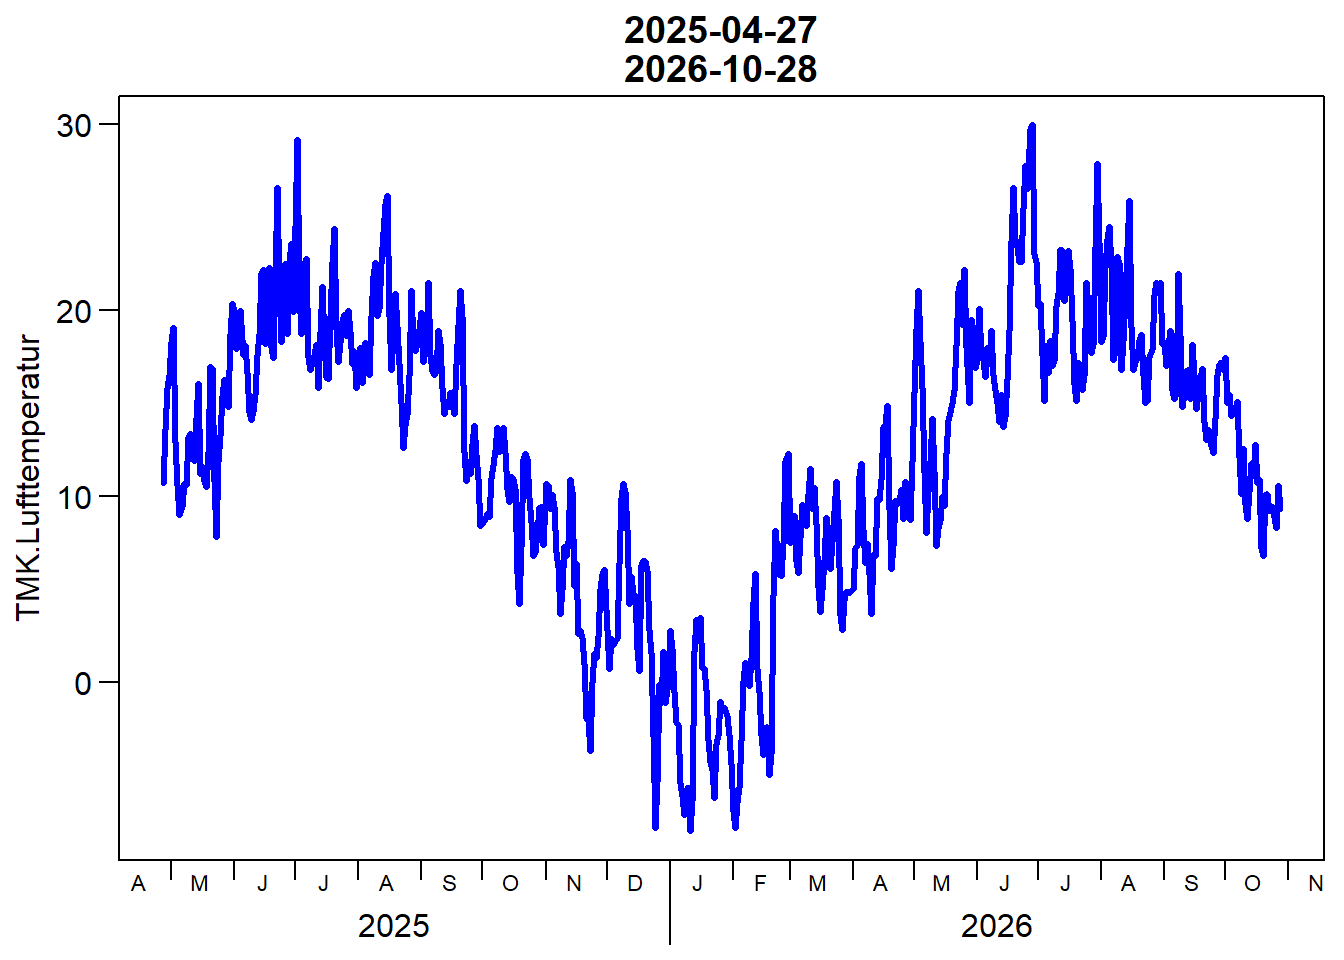
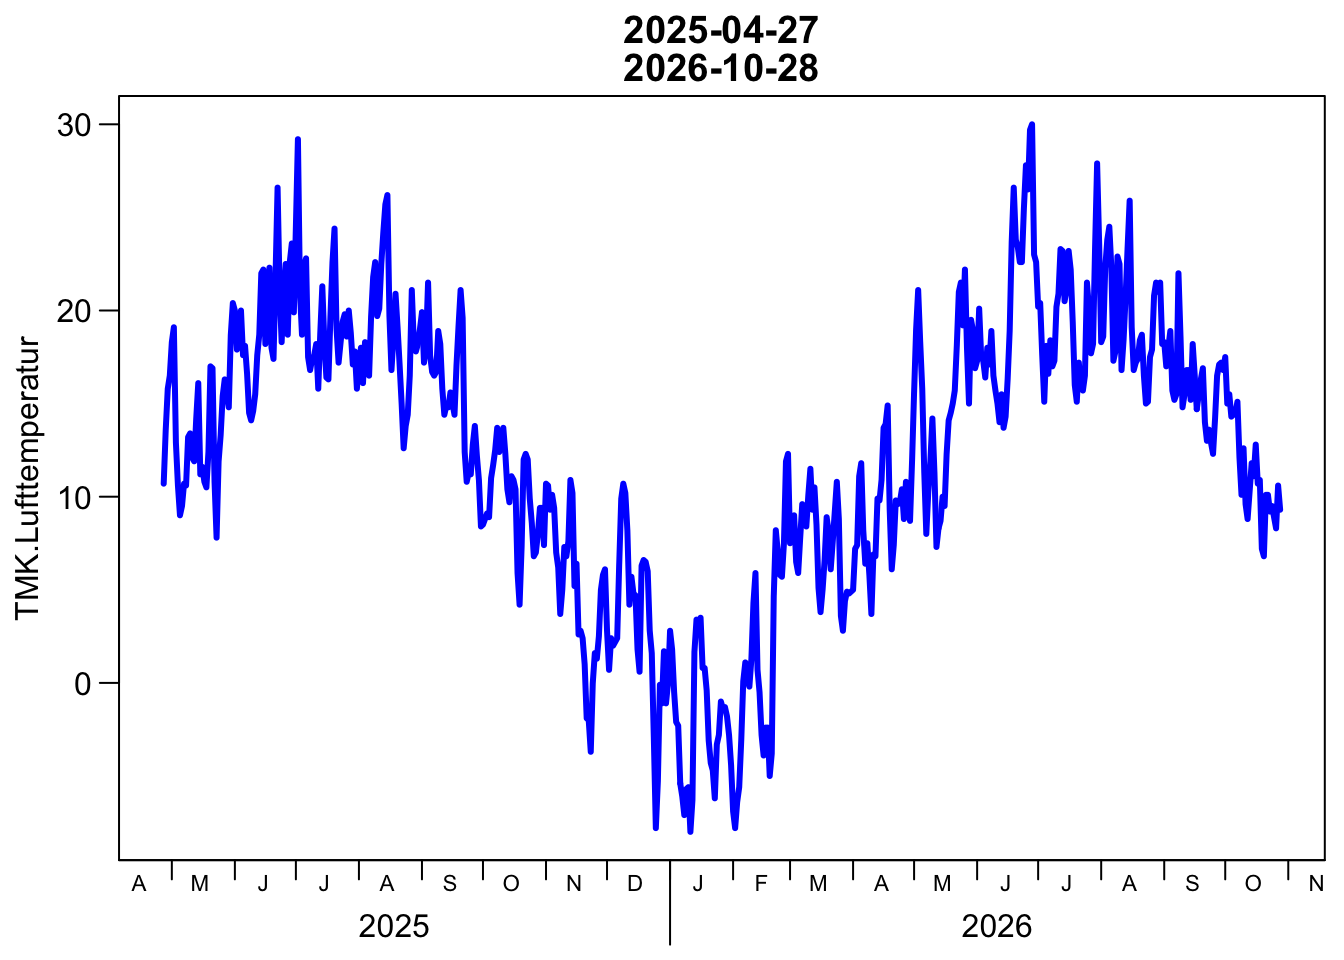
changed output type to console (yaml)

diff --git a/index.html b/index.html
@@ -75,7 +75,7 @@ pre > code.sourceCode > span > a:first-child::before { text-decoration: underlin
 <link href="index_files/libs/quarto-html/quarto-syntax-highlighting-bf27225e3a48a9273f3daa8f8e829971.css" rel="stylesheet" id="quarto-text-highlighting-styles">
 <script src="index_files/libs/bootstrap/bootstrap.min.js"></script>
 <link href="index_files/libs/bootstrap/bootstrap-icons.css" rel="stylesheet">
-<link href="index_files/libs/bootstrap/bootstrap-62e2d20df198e8a01bb734742f2e28cf.min.css" rel="stylesheet" append-hash="true" id="quarto-bootstrap" data-mode="light">
+<link href="index_files/libs/bootstrap/bootstrap-c2e55264ed47ce3b2e0326a2269f9400.min.css" rel="stylesheet" append-hash="true" id="quarto-bootstrap" data-mode="light">
 
 
 </head>
@@ -118,7 +118,7 @@ pre > code.sourceCode > span > a:first-child::before { text-decoration: underlin
     <div>
     <div class="quarto-title-meta-heading">Published</div>
     <div class="quarto-title-meta-contents">
-      <p class="date">2026-10-29 18:26</p>
+      <p class="date">2026-10-29 17:58</p>
     </div>
   </div>
   
